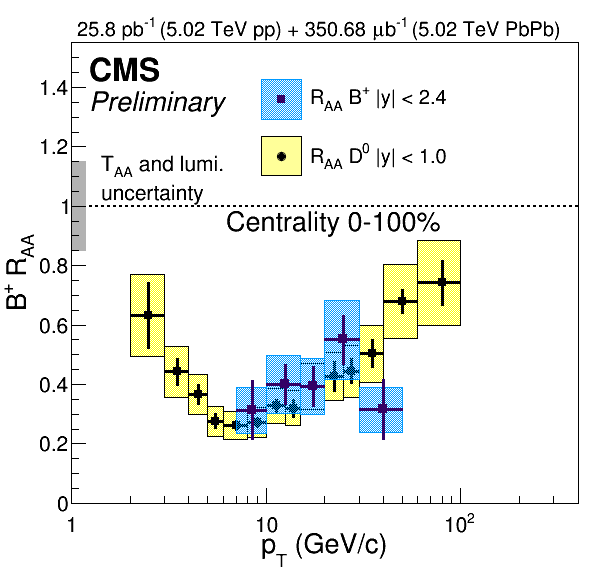
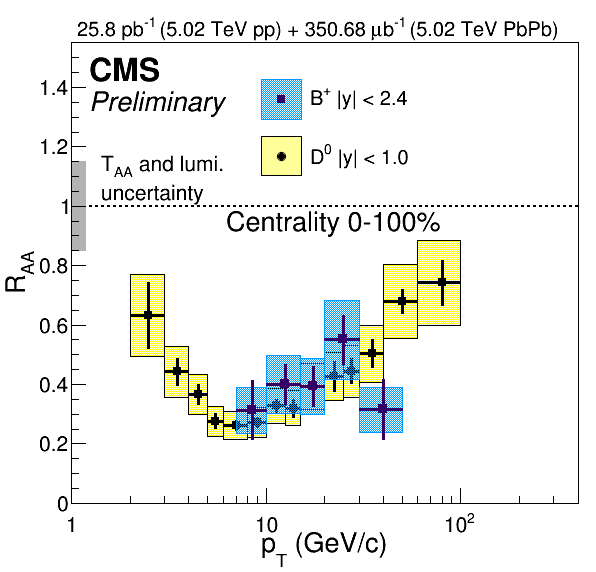
update

diff --git a/CrossSection/NuclearModificationFactor.C b/CrossSection/NuclearModificationFactor.C
@@ -15,7 +15,7 @@ void NuclearModificationFactor(TString inputPP="ROOTfiles/CrossSectionPP.root", 
 {
 //  drawDRAA = true;
 //  drawChHad = true;
-  drawThm = true;
+//  drawThm = true;
 
   float pti = ptBins[0]-2.;
   float pte = ptBins[nBins]+5.;
@@ -79,7 +79,7 @@ void NuclearModificationFactor(TString inputPP="ROOTfiles/CrossSectionPP.root", 
   TH2F* hemptyEff=new TH2F("hemptyEff","",50,pti,pte,10.,0,1.55);  
   hemptyEff->GetXaxis()->CenterTitle();
   hemptyEff->GetYaxis()->CenterTitle();
-  hemptyEff->GetYaxis()->SetTitle("B^{+} R_{AA}");
+  hemptyEff->GetYaxis()->SetTitle("R_{AA}");
   hemptyEff->GetXaxis()->SetTitle("p_{T} (GeV/c)");
   hemptyEff->GetXaxis()->SetTitleOffset(1.0);
   hemptyEff->GetYaxis()->SetTitleOffset(1.1);
@@ -164,9 +164,9 @@ void NuclearModificationFactor(TString inputPP="ROOTfiles/CrossSectionPP.root", 
   texpre->Draw();
 
   //TLegend *legendSigma=new TLegend(0.40,0.5168644,0.8084677,0.6605932,"");
-  TLegend *legendSigma=new TLegend(0.5436242,0.7474695,0.942953,0.8457592,"");
+  TLegend *legendSigma=new TLegend(0.6036242,0.7474695,0.942953,0.8457592,"");
   if(drawDRAA)legendSigma=new TLegend(0.4236242,0.6774695,0.812953,0.8757592,"");
-  if(drawThm)legendSigma=new TLegend(0.5436242,0.6774695,0.922953,0.8757592,"");
+  if(drawThm)legendSigma=new TLegend(0.5636242,0.6774695,0.922953,0.8757592,"");
   legendSigma->SetBorderSize(0);
   legendSigma->SetLineColor(0);
   legendSigma->SetFillColor(0);
@@ -186,7 +186,7 @@ void NuclearModificationFactor(TString inputPP="ROOTfiles/CrossSectionPP.root", 
 //  ent_Sigmapp->SetMarkerColor(1);
 //  ent_Sigmapp->SetTextSize(0.045);
 
-  TLegendEntry *ent_B = legendSigma->AddEntry(gNuclearModification,"R_{AA} B^{+} |y| < 2.4","pf");
+  TLegendEntry *ent_B = legendSigma->AddEntry(gNuclearModification,"B^{+} |y| < 2.4","pf");
   ent_B->SetTextFont(42);
   ent_B->SetLineColor(4);
   ent_B->SetMarkerColor(4);
@@ -218,7 +218,7 @@ void NuclearModificationFactor(TString inputPP="ROOTfiles/CrossSectionPP.root", 
     Draw_DRAA(canvasRAA, gDNuclearModification);
     gDNuclearModification->SetFillColor(kYellow-9);
     //gDNuclearModification->SetFillColor(5);
-    TLegendEntry *ent_Dhighpt = legendSigma->AddEntry(gDNuclearModification,"R_{AA} D^{0} |y| < 1.0","pf");
+    TLegendEntry *ent_Dhighpt = legendSigma->AddEntry(gDNuclearModification,"D^{0} |y| < 1.0","pf");
     ent_Dhighpt->SetTextFont(42);
 //    ent_Dhighpt->SetLineColor(4);
     ent_Dhighpt->SetMarkerColor(4);
@@ -229,7 +229,7 @@ void NuclearModificationFactor(TString inputPP="ROOTfiles/CrossSectionPP.root", 
     TGraphAsymmErrors* gChHadDummy = new TGraphAsymmErrors();
     gChHadDummy->SetFillColor(TColor::GetColor("#ffcc00"));
     gChHadDummy->SetMarkerColor(kRed);
-    TLegendEntry *ent_ChHad = legendSigma->AddEntry(gChHadDummy,"R_{AA} charged hadrons |y| < 1.0","pf");
+    TLegendEntry *ent_ChHad = legendSigma->AddEntry(gChHadDummy,"charged hadrons |y| < 1.0","pf");
     ent_ChHad->SetTextFont(42);
     ent_ChHad->SetLineColor(4);
     ent_ChHad->SetMarkerColor(4);

diff --git a/Systematics/systematics.C b/Systematics/systematics.C
@@ -599,7 +599,7 @@ void plotSystematicsPP()
    TH1D *h6 = new TH1D("h6","",100,0,1);
    h6->SetLineWidth(2); h6->SetLineColor(kMagenta);
 
-  TLatex* texlumi = new TLatex(0.35,0.936,"27.7 pb^{-1} (5.02 TeV pp)");
+  TLatex* texlumi = new TLatex(0.35,0.936,"25.8 pb^{-1} (5.02 TeV pp)");
   texlumi->SetNDC();
   //texlumi->SetTextAlign(31);
   texlumi->SetTextFont(42);
